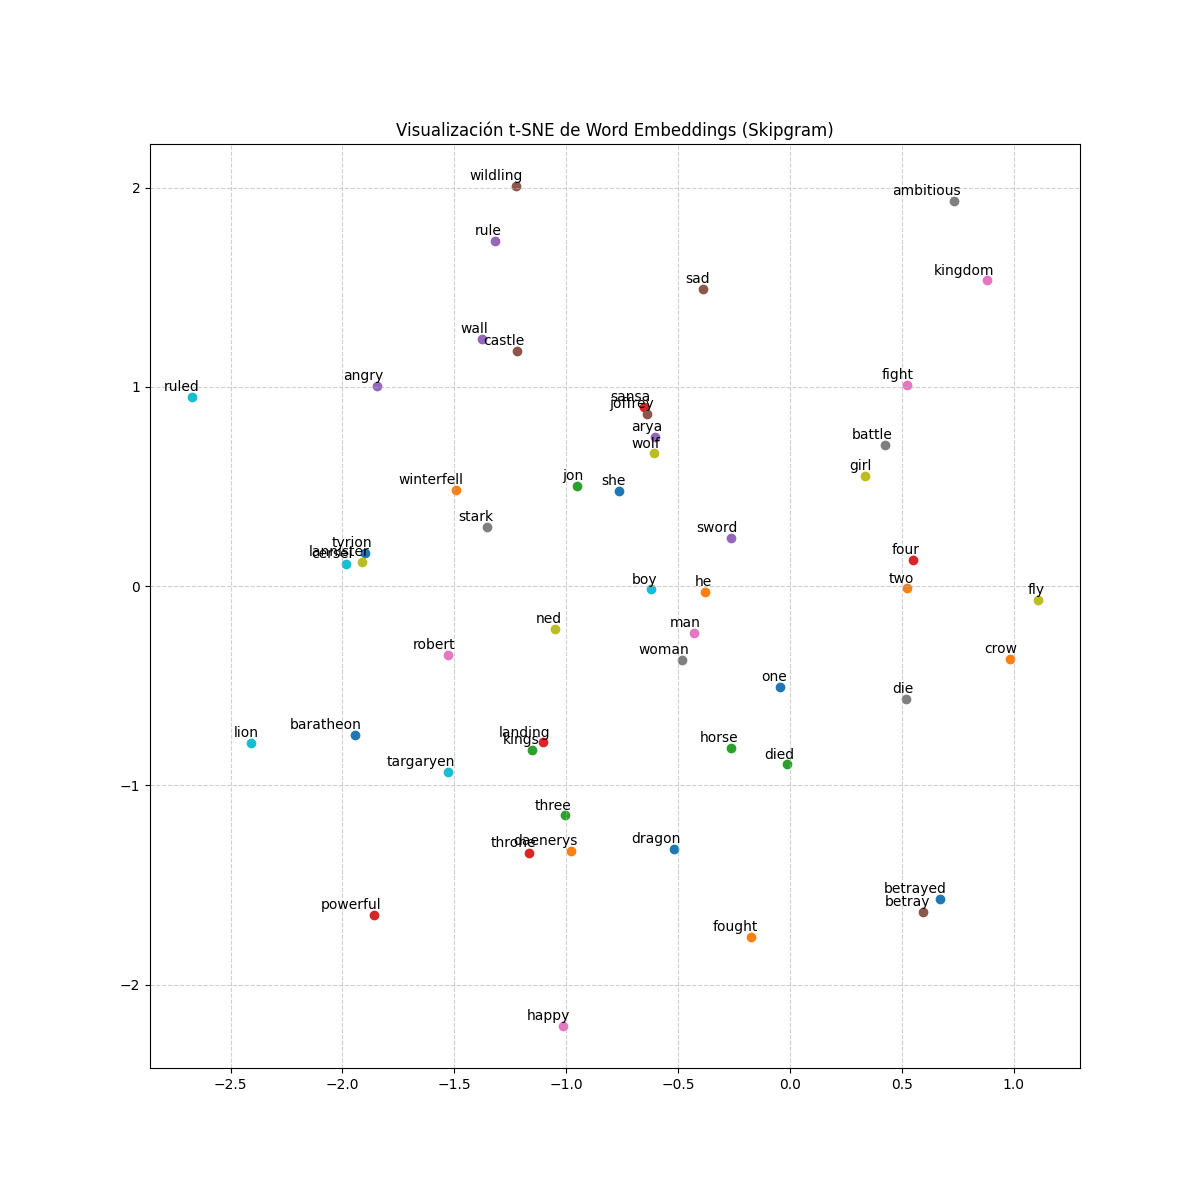
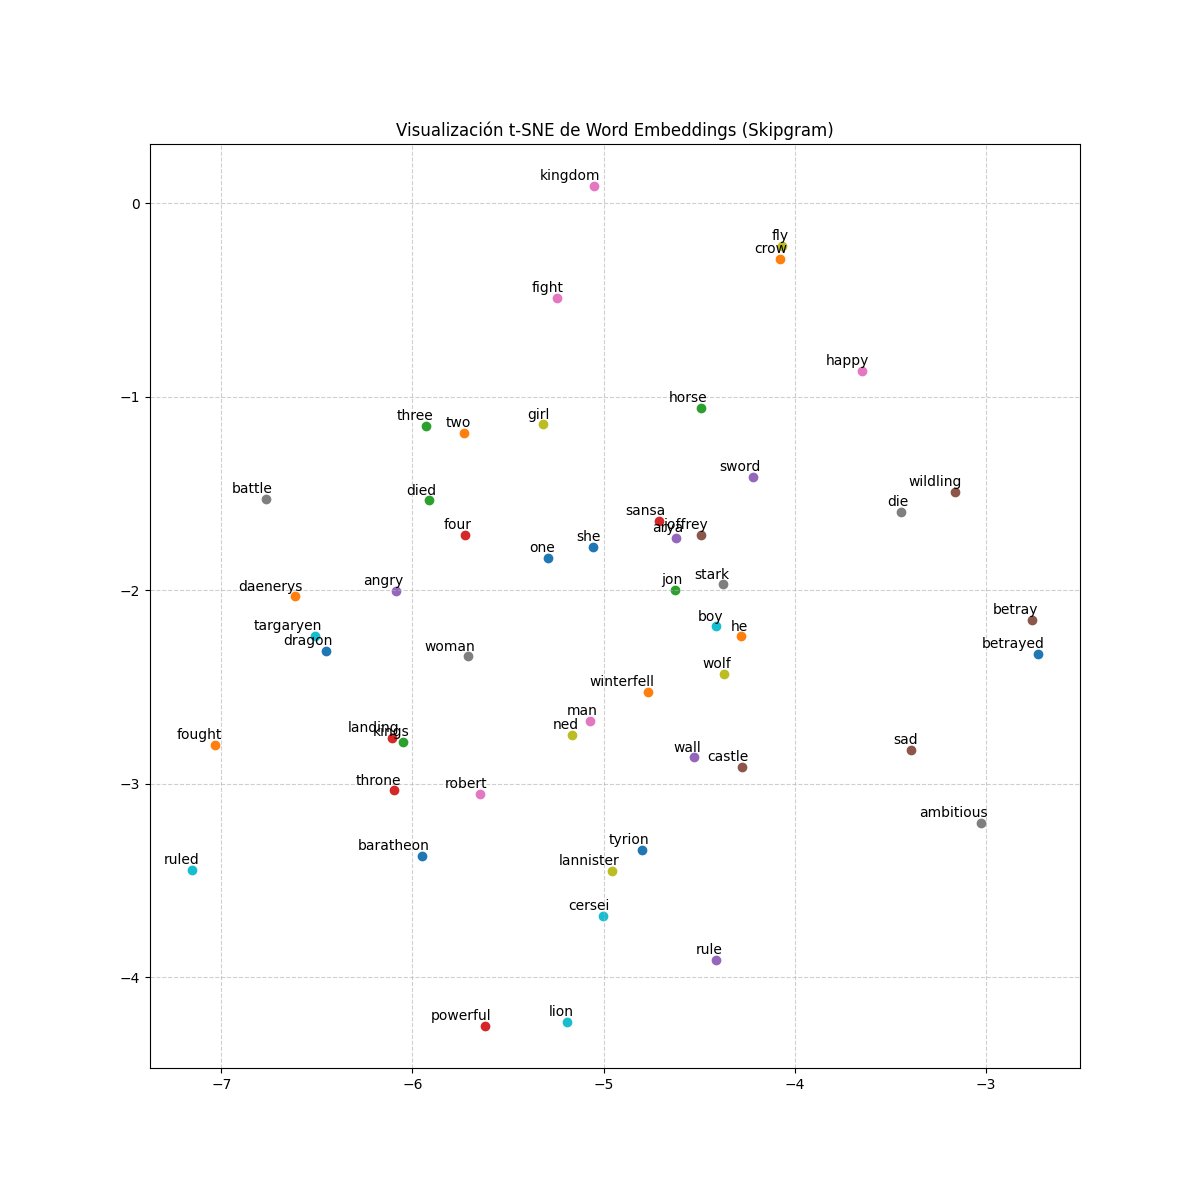
skipgramm a .py

diff --git a/P2/skipgramm.py b/P2/skipgramm.py
@@ -1,0 +1,223 @@
+import os
+import numpy as np
+from tensorflow.keras.preprocessing.text import Tokenizer
+from tensorflow.keras.layers import Input, Embedding, Dot, Flatten, Dense
+from tensorflow.keras.models import Model
+from tensorflow.keras.preprocessing.sequence import skipgrams
+from sklearn.metrics.pairwise import cosine_similarity
+import matplotlib.pyplot as plt
+from sklearn.manifold import TSNE
+from sklearn.preprocessing import normalize
+os.environ['TF_ENABLE_ONEDNN_OPTS'] = '0'
+
+
+def cargar_y_tokenizar(ruta_archivo):
+    with open(ruta_archivo, 'r', encoding='utf-8') as f:
+        texto_corpus = f.read()
+
+    print("Entrenando el Tokenizador...")
+    tokenizer = Tokenizer()
+    tokenizer.fit_on_texts([texto_corpus])
+
+    secuencia_ids = tokenizer.texts_to_sequences([texto_corpus])[0]
+    vocab_size = len(tokenizer.word_index) + 1
+
+    print(f"Tamaño del vocabulario: {vocab_size}")
+    print(f"Total de palabras en el texto: {len(secuencia_ids)}")
+
+    return tokenizer, secuencia_ids, vocab_size
+
+
+def submuestreo(secuencia, t=1e-3):
+    """
+    Descarta palabras muy frecuentes con probabilidad P(w) = 1 - sqrt(t / f(w))
+    donde f(w) es la frecuencia relativa de la palabra en el corpus.
+    Fórmula de Mikolov et al. (2013), umbral t=1e-3 por defecto.
+    """
+    total_words = len(secuencia)
+
+    conteo = {}
+    for word_id in secuencia:
+        conteo[word_id] = conteo.get(word_id, 0) + 1
+
+    secuencia_filtrada = []
+    for word_id in secuencia:
+        freq = conteo[word_id] / total_words
+        prob_descartar = max(0.0, 1.0 - np.sqrt(t / freq))
+        if np.random.random() > prob_descartar:
+            secuencia_filtrada.append(word_id)
+
+    return secuencia_filtrada
+
+
+def generar_pares(secuencia_submuestreada, vocab_size, window_size=6, negative_samples=4.0):
+    pairs, labels = skipgrams(
+        secuencia_submuestreada,
+        vocabulary_size=vocab_size,
+        window_size=window_size,
+        negative_samples=negative_samples,
+        seed=42
+    )
+
+    word_target, word_context = zip(*pairs)
+    word_target = np.array(word_target, dtype="int32")
+    word_context = np.array(word_context, dtype="int32")
+    labels = np.array(labels, dtype="int32")
+
+    print(f"Parejas generadas tras submuestreo: {len(pairs)}")
+    return word_target, word_context, labels
+
+
+def construir_modelo(vocab_size, embedding_dim=100):
+    input_target = Input((1,), name="entrada_palabra_central")
+    input_context = Input((1,), name="entrada_palabra_contexto")
+
+    embedding_layer = Embedding(vocab_size, embedding_dim, name="capa_embedding")
+
+    target_vector = embedding_layer(input_target)
+    context_vector = embedding_layer(input_context)
+
+    dot_product = Dot(axes=2)([target_vector, context_vector])
+    dot_product = Flatten()(dot_product)
+
+    output = Dense(1, activation="sigmoid")(dot_product)
+
+    modelo = Model(inputs=[input_target, input_context], outputs=output)
+    modelo.compile(loss="binary_crossentropy", optimizer="adam", metrics=["accuracy"])
+    modelo.summary()
+
+    return modelo
+
+
+def entrenar_modelo(modelo, word_target, word_context, labels, batch_size=1024, epochs=8):
+    print("\nIniciando el entrenamiento...")
+
+    historial = modelo.fit(
+        x=[word_target, word_context],
+        y=labels,
+        batch_size=batch_size,
+        epochs=epochs,
+        validation_split=0.1
+    )
+
+    pesos_embeddings = modelo.get_layer('capa_embedding').get_weights()[0]
+    print(f"\nForma final de la matriz de embeddings: {pesos_embeddings.shape}")
+
+    return historial, pesos_embeddings
+
+
+def obtener_palabras_similares(palabra_objetivo, matriz_embeddings, tokenizer, top_n=10):
+    index_word = {id: palabra for palabra, id in tokenizer.word_index.items()}
+
+    if palabra_objetivo not in tokenizer.word_index:
+        print(f"La palabra '{palabra_objetivo}' no está en el vocabulario.")
+        return
+
+    word_id = tokenizer.word_index[palabra_objetivo]
+    word_vector = matriz_embeddings[word_id].reshape(1, -1)
+
+    similitudes = cosine_similarity(word_vector, matriz_embeddings)[0]
+    indices_top = np.argsort(similitudes)[::-1][1:top_n + 1]
+
+    print(f"\nLas {top_n} palabras más similares a '{palabra_objetivo}':")
+    for idx in indices_top:
+        if idx in index_word:
+            print(f" - {index_word[idx]} (Similitud: {similitudes[idx]:.4f})")
+
+
+def evaluar_similitudes(pesos_embeddings, tokenizer, palabras_prueba):
+    print("\n--- Evaluando Similitud Semántica ---")
+    for palabra in palabras_prueba:
+        obtener_palabras_similares(palabra, pesos_embeddings, tokenizer, top_n=10)
+
+
+def comprobar_embeddings(pesos_embeddings):
+    print("\n--- Comprobación de Embeddings Degenerados ---")
+    std_dev = np.std(pesos_embeddings)
+    print(f"Desviación típica de los embeddings: {std_dev:.4f}")
+
+    if std_dev < 0.05:
+        print("[FAIL] Cuidado: Los embeddings podrían estar degenerados (colapsados en la misma región).")
+    else:
+        print("[OK] Embeddings saludables. Existe una dispersión correcta en el espacio vectorial.")
+
+
+def visualize_tsne_embeddings(words, embeddings, word_index, filename=None):
+    print("\n--- Generando Visualización t-SNE ---")
+    pesos_normalizados = normalize(embeddings)
+    words_present = [w for w in words if w in word_index]
+
+    if not words_present:
+        print("Ninguna de las palabras objetivo está en el vocabulario.")
+        return
+
+    indices = [word_index[word] for word in words_present]
+    selected_embeddings = pesos_normalizados[indices]
+
+    tsne = TSNE(
+        n_components=2,
+        perplexity=30,
+        early_exaggeration=15,
+        learning_rate='auto',
+        init='pca',
+        n_iter=2000,
+        random_state=42
+    )
+
+    reduced_embeddings = tsne.fit_transform(selected_embeddings)
+
+    plt.figure(figsize=(12, 12))
+    for i, word in enumerate(words_present):
+        plt.scatter(reduced_embeddings[i, 0], reduced_embeddings[i, 1], marker='o')
+        plt.annotate(word,
+                     xy=(reduced_embeddings[i, 0], reduced_embeddings[i, 1]),
+                     xytext=(5, 2), textcoords='offset points',
+                     ha='right', va='bottom')
+
+    plt.title("Visualización t-SNE de Word Embeddings (Skipgram)")
+    plt.grid(True, linestyle='--', alpha=0.6)
+
+    if filename:
+        plt.savefig(filename)
+        print(f"Gráfico guardado como: {filename}")
+    else:
+        plt.show()
+
+
+def cargar_palabras_objetivo(ruta_target):
+    try:
+        with open(ruta_target, 'r', encoding='utf-8') as f:
+            palabras = [linea.strip().lower() for linea in f.readlines() if linea.strip()]
+        print(f"Se han cargado {len(palabras)} palabras para visualizar.")
+        return palabras
+    except FileNotFoundError:
+        print(f"No se ha encontrado el archivo en la ruta: {ruta_target}")
+        return []
+
+
+if __name__ == "__main__":
+    # Rutas
+    ruta_archivo = os.path.join('datasets', 'game_of_thrones.txt')
+    ruta_target  = os.path.join('mats', 'target_words_game_of_thrones.txt')
+
+    # Pipeline
+    tokenizer, secuencia_ids, vocab_size = cargar_y_tokenizar(ruta_archivo)
+
+    print("Aplicando submuestreo para limpiar el texto...")
+    secuencia_submuestreada = submuestreo(secuencia_ids, t=1e-3)
+    print(f"Palabras originales: {len(secuencia_ids)}")
+    print(f"Palabras tras el filtro: {len(secuencia_submuestreada)}")
+
+    word_target, word_context, labels = generar_pares(secuencia_submuestreada, vocab_size)
+
+    modelo = construir_modelo(vocab_size, embedding_dim=100)
+
+    historial, pesos_embeddings = entrenar_modelo(modelo, word_target, word_context, labels)
+
+    evaluar_similitudes(pesos_embeddings, tokenizer, palabras_prueba=["betray", "ambitious", "sword", "wall"])
+
+    comprobar_embeddings(pesos_embeddings)
+
+    palabras_objetivo = cargar_palabras_objetivo(ruta_target)
+    if palabras_objetivo:
+        visualize_tsne_embeddings(palabras_objetivo, pesos_embeddings, tokenizer.word_index, filename="tsne_skipgram.png")
